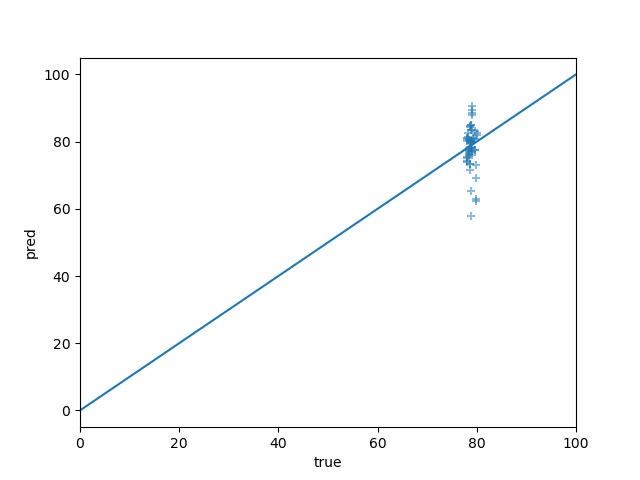
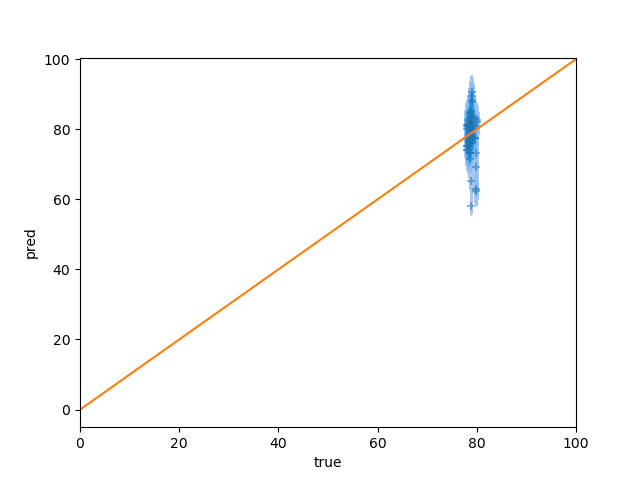
??

diff --git a/mxn/mxn.py b/mxn/mxn.py
@@ -54,8 +54,8 @@ class CDS:
             right = lambda n : seq_from[min(changes_idx) - n :min(changes_idx)]
 
             homoTm = lambda s : primer3.calcHomodimerTm(s,mv_conc= 25, dv_conc = 0.5)
-            endscore = lambda s : sum([1 for i in s[2] + s[-2] if i == 'C' or i == 'G']\
-                                    + [2 for i in s[1] + s[-1] if i == 'C' or i == 'G']) # max 6
+            endscore = lambda s : sum([1 for i in s[1] + s[-2] if i == 'C' or i == 'G']\
+                                    + [2 for i in s[0] + s[-1] if i == 'C' or i == 'G']) # max 6
             scorefn = lambda l, m, r : abs(agilent_tm(l, r) - tm) \
                                             - endscore(l+m+r) # + homoTm(l+m+r)
             objective = lambda ln, rn : scorefn(left(round(ln)), payload, right(round(rn)))

diff --git a/tmdata/agilent-quick-change/adjust_params.py b/tmdata/agilent-quick-change/adjust_params.py
@@ -1,6 +1,7 @@
 import numpy as np
 import pandas as pd
 import matplotlib.pyplot as plt
+import seaborn as sns
 import primer3
 
 def scale(params):
@@ -58,6 +59,7 @@ def main():
         y.append(tm)
         yh.append(tm_pred)
 
+    sns.kdeplot(y,yh, fill = True)
     plt.scatter(y,yh, marker='+', alpha=0.5)
     plt.plot([0,100],[0,100])
     plt.xlim(0,100)

diff --git a/notes.md b/notes.md
@@ -21,7 +21,6 @@
 	- dmso: 8%
 ![](tmdata/agilent-quick-change/params-accuracy.png')
 
-#### good enough for now
 
 ### mxn.py
 - CDS.mutate( -- makes primer - it already has some of the variables like the codon and area of sequence, so that's what I'm doing for now. primers made with CDS.make_primers( and added to CDS.primers . updates sequence with new codon each time (chosen based on e.coli bias)
@@ -31,9 +30,13 @@
 - developed features with a test.py that reads the BM3 mutations from connecting the dots and creates all mutations and prints a dataframe of the primers. 
 
 ## issues
+- only designed forward primer - check agilent docs -> 
 - statefulness - order mutations are applied matters. this is a problem with overlapping primers if i want to do the pcrs in a different order. 
 	- i should start making <4 mutations at a time to start with 
 
 - mxn calculated tm vs agilent - i should make some comparisons! test with a selenium script?
 - tangled code - i should try some teardown / shuffled variants of the CDS object
 - ui - needs field testing i think, can definitely be improved
+
+## todo
+- i'll generate some priemrs for some connecting the dots mutants and compare that to what the agilent tool designs, then order and see how it goes in the lab. 
